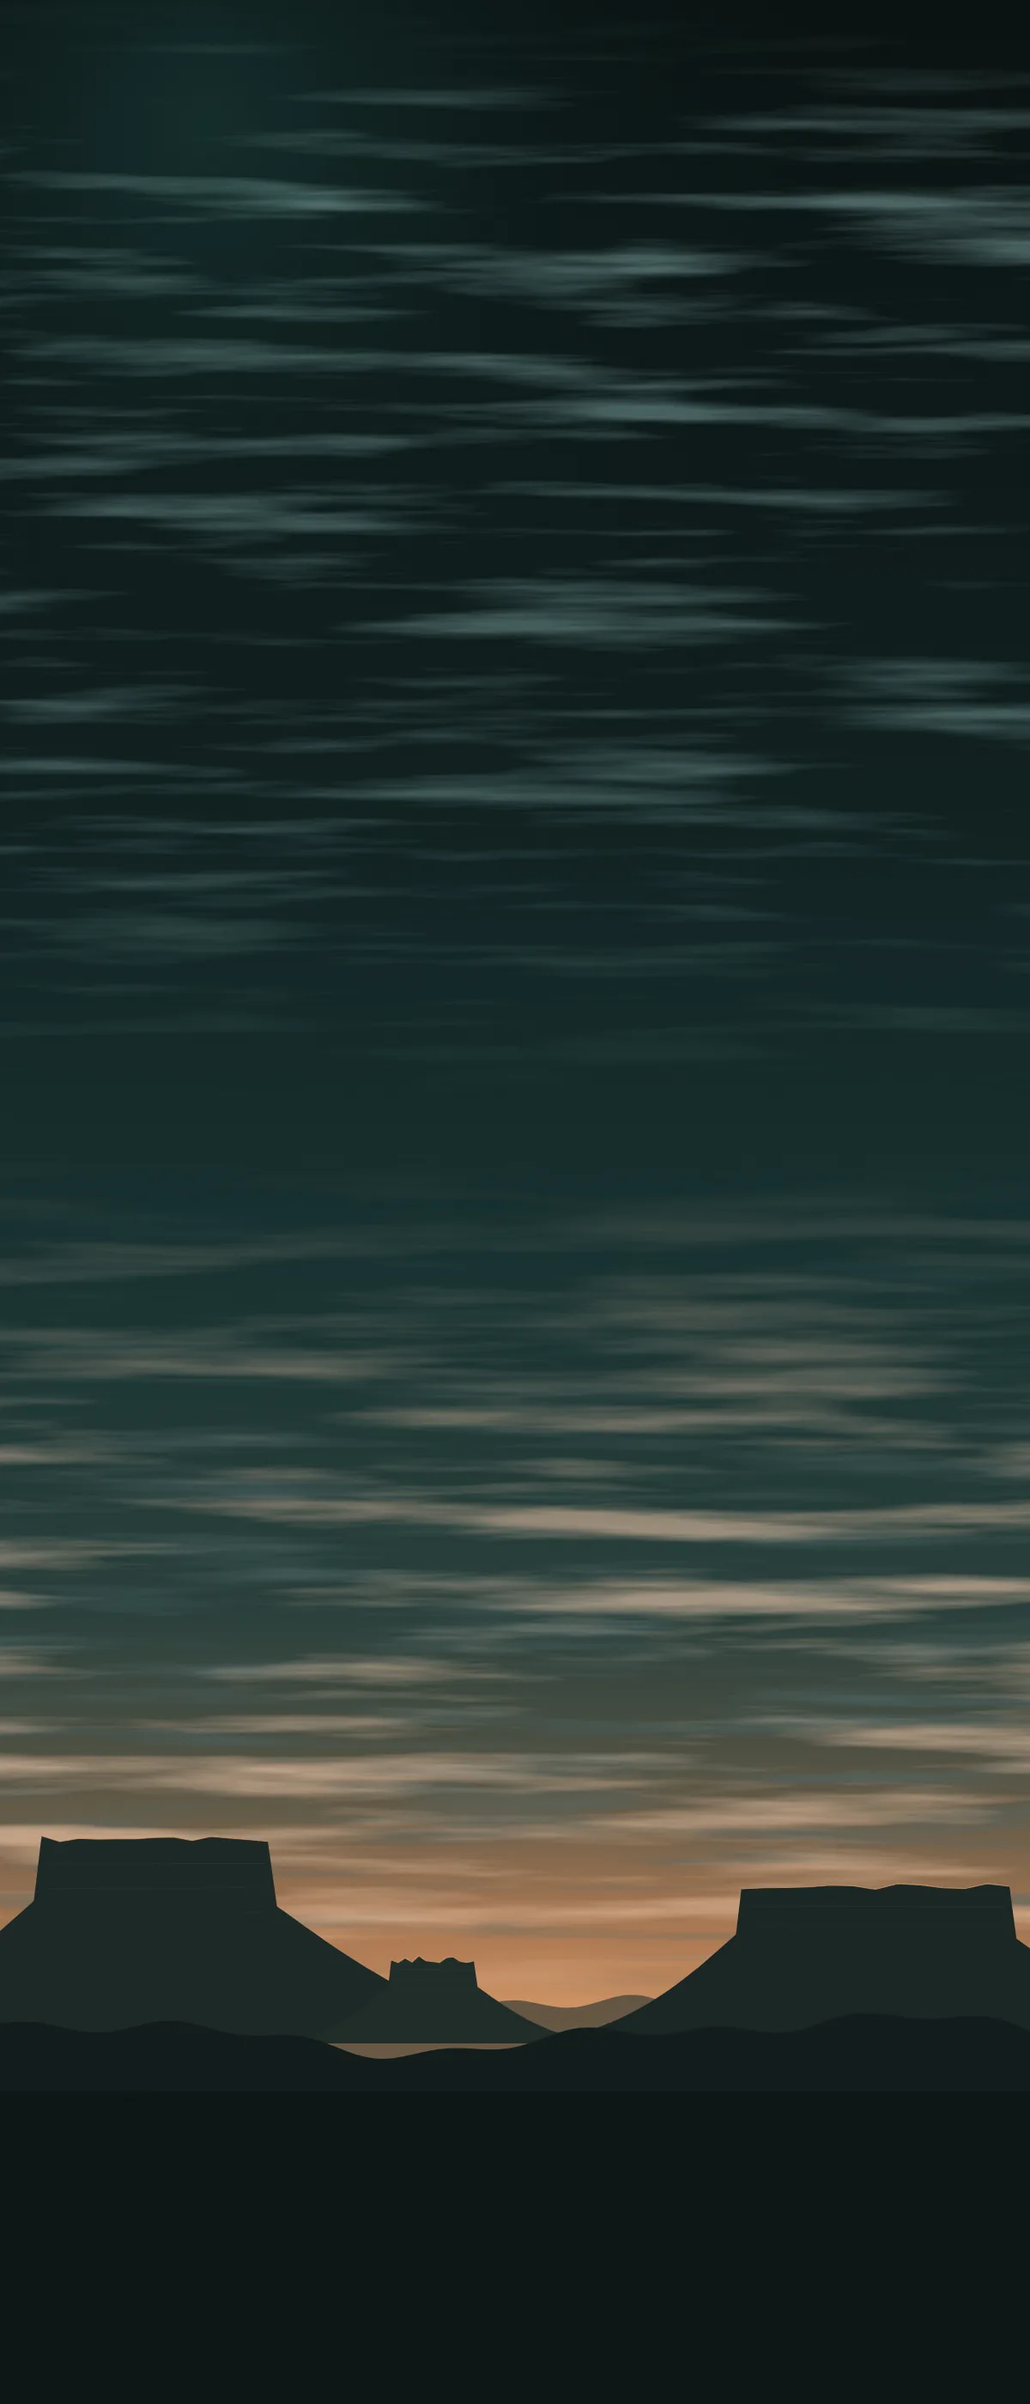
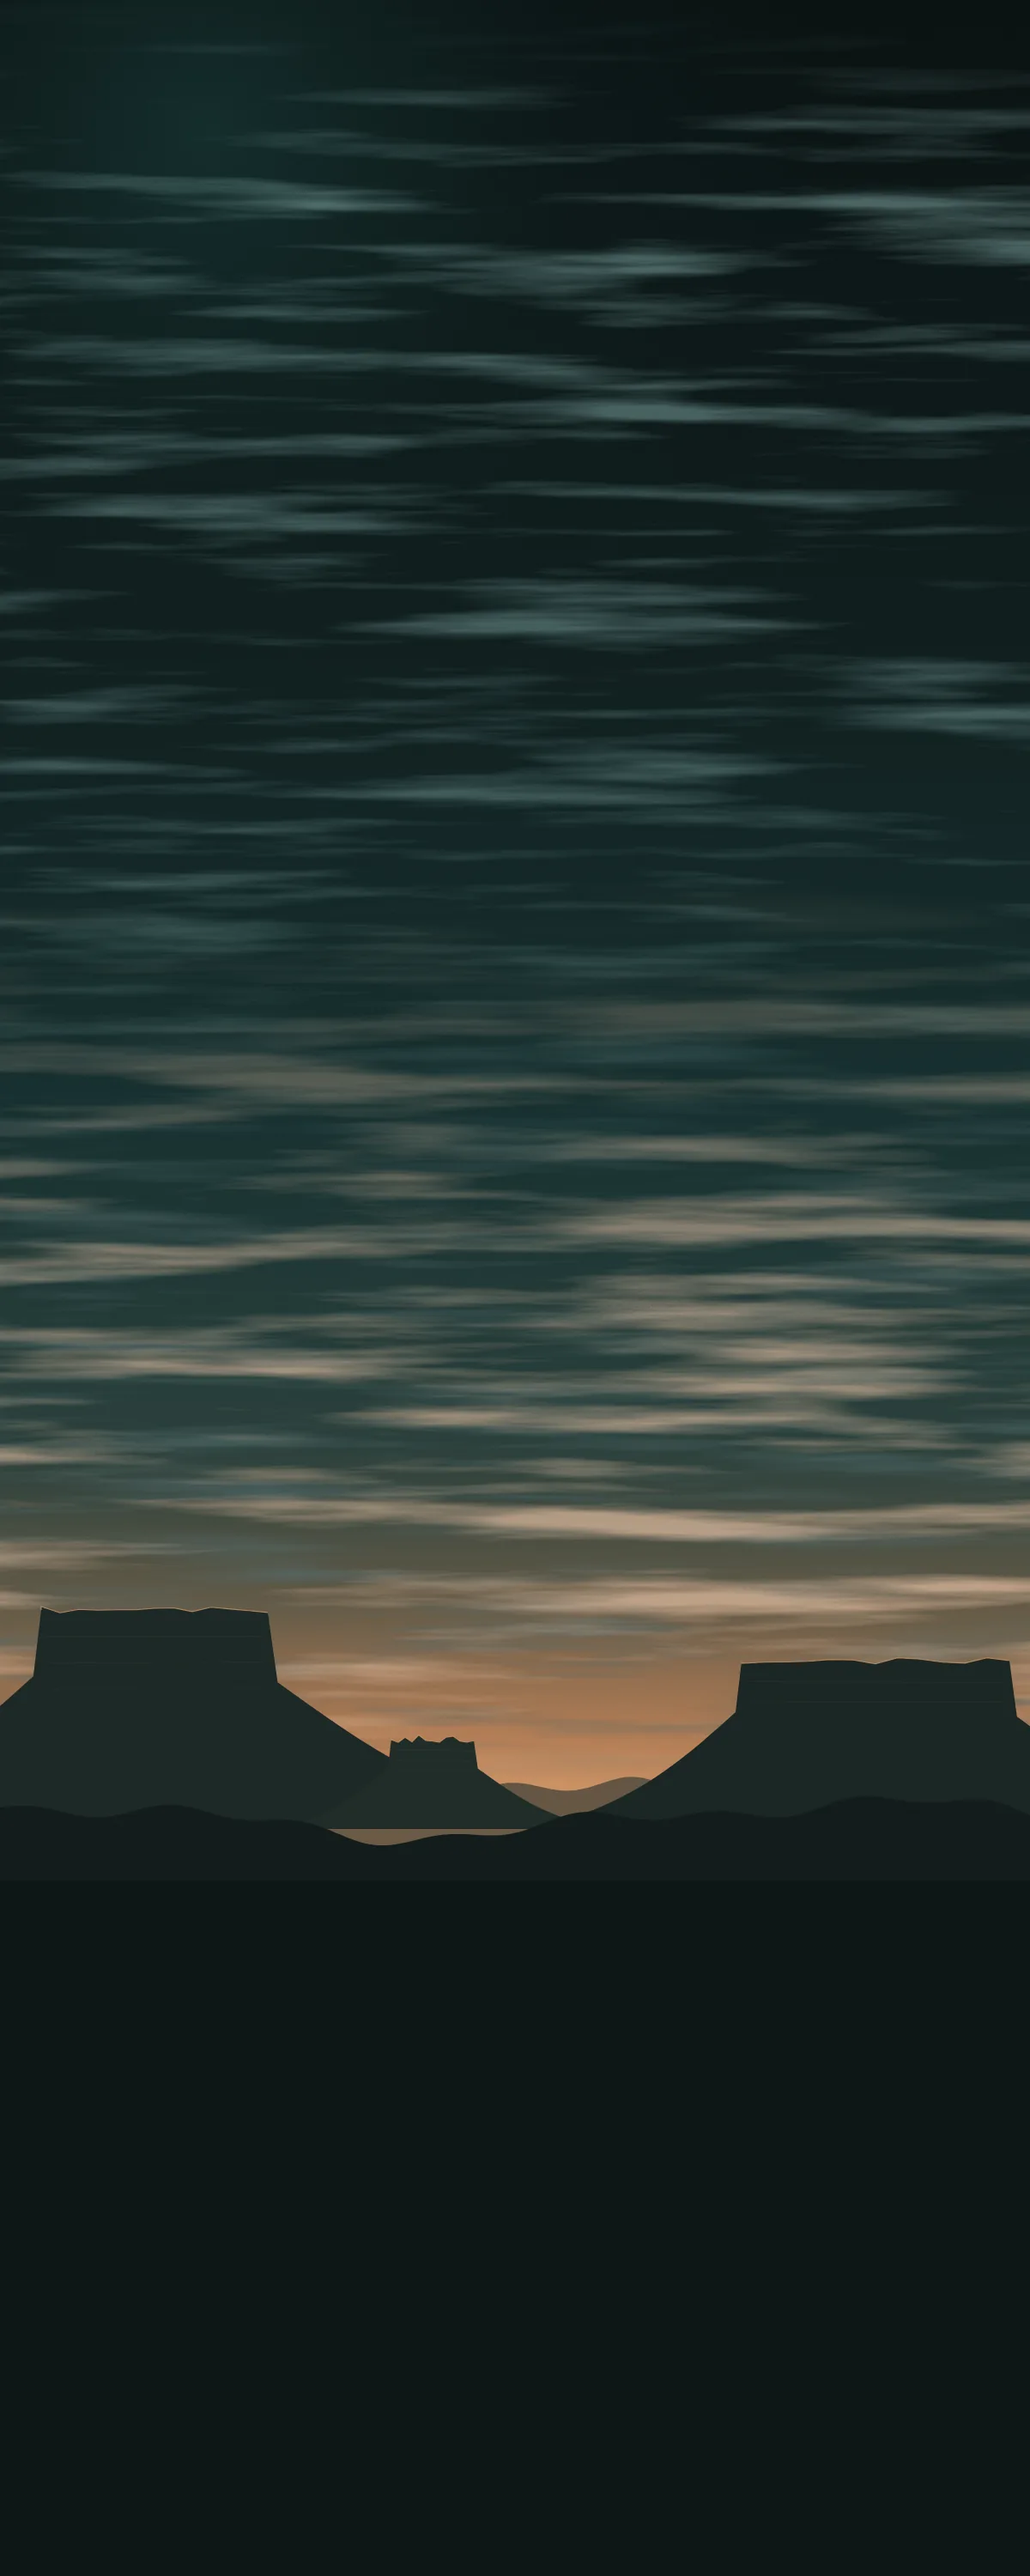
H3: align the next section, compact phone tabs, raise the phone horizon [skip ci]

diff --git a/apps/website/src/directions/h3/h3.css b/apps/website/src/directions/h3/h3.css
@@ -13,7 +13,6 @@
   --h3-serif: Newsreader, Georgia, 'Times New Roman', serif;
   --h3-gutter: clamp(0.75rem, 2.4vw, 2.5rem);
   --h3-frame: min(110rem, 100% - 2 * var(--h3-gutter));
-  --h3-measure: min(80rem, 100% - 2 * var(--h3-gutter));
   --h3-ink: color-mix(in srgb, var(--brand-text), transparent 14%);
   --h3-line: rgb(255 255 255 / 9%);
   scroll-padding-block-start: 6rem;
